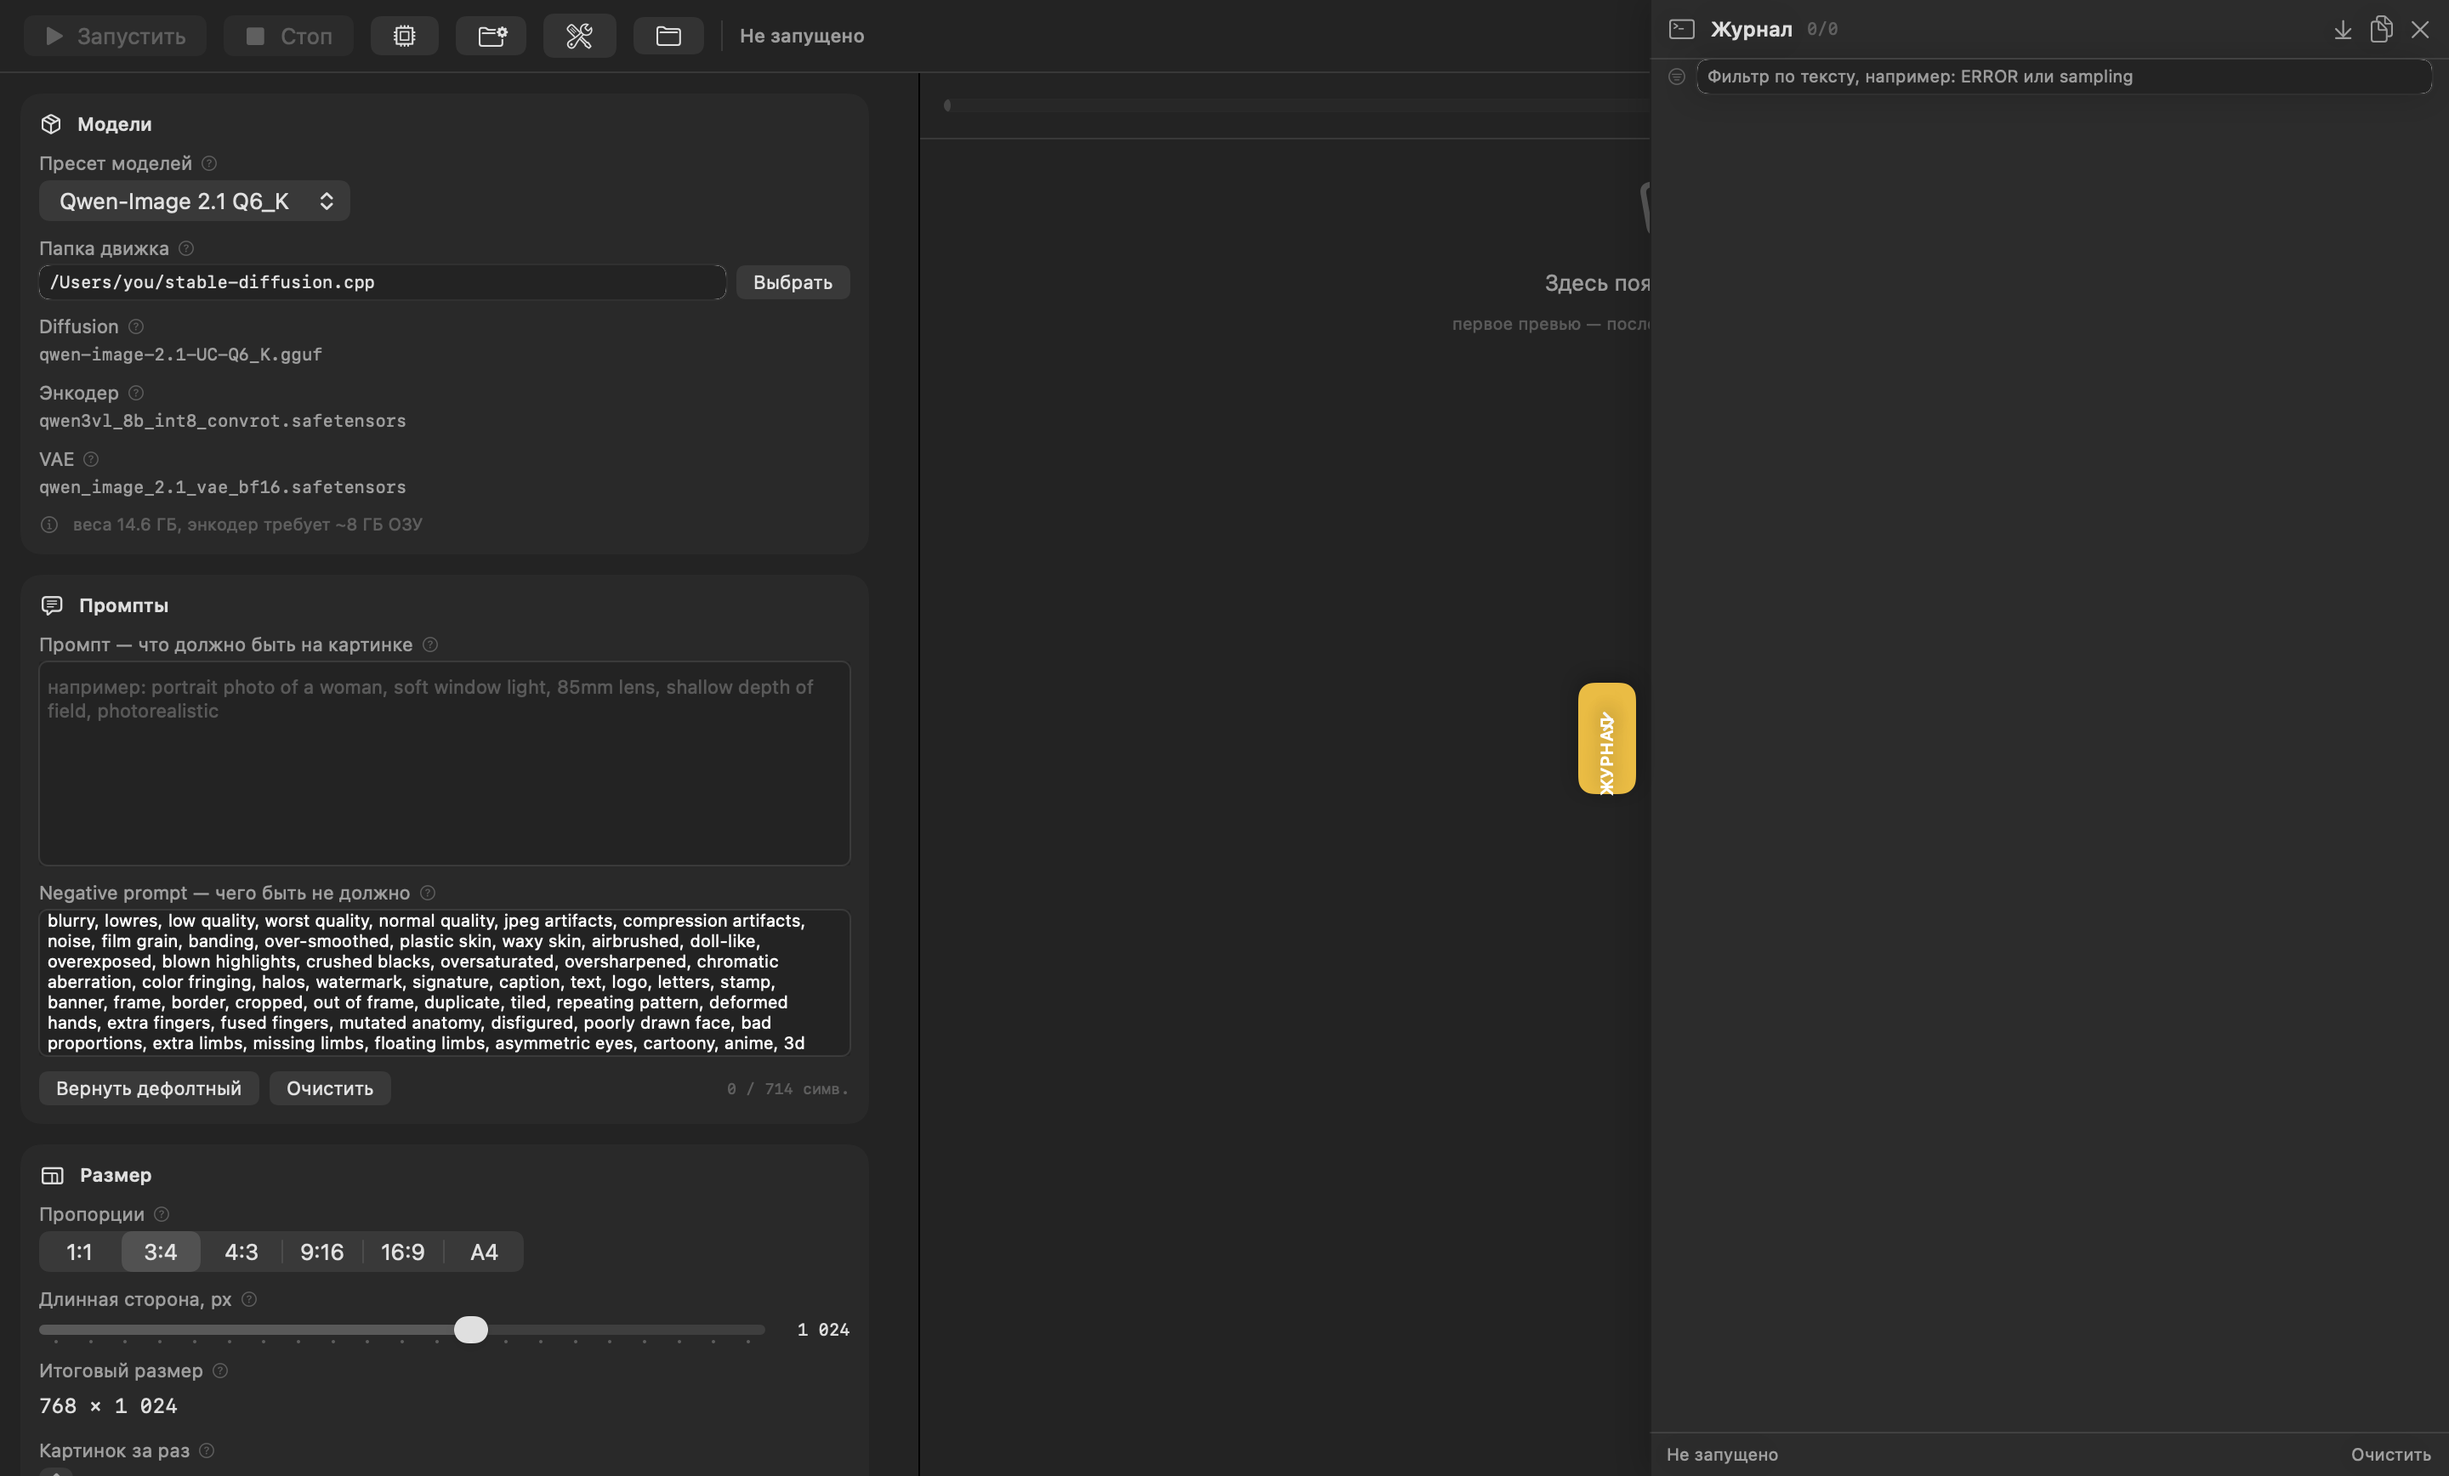
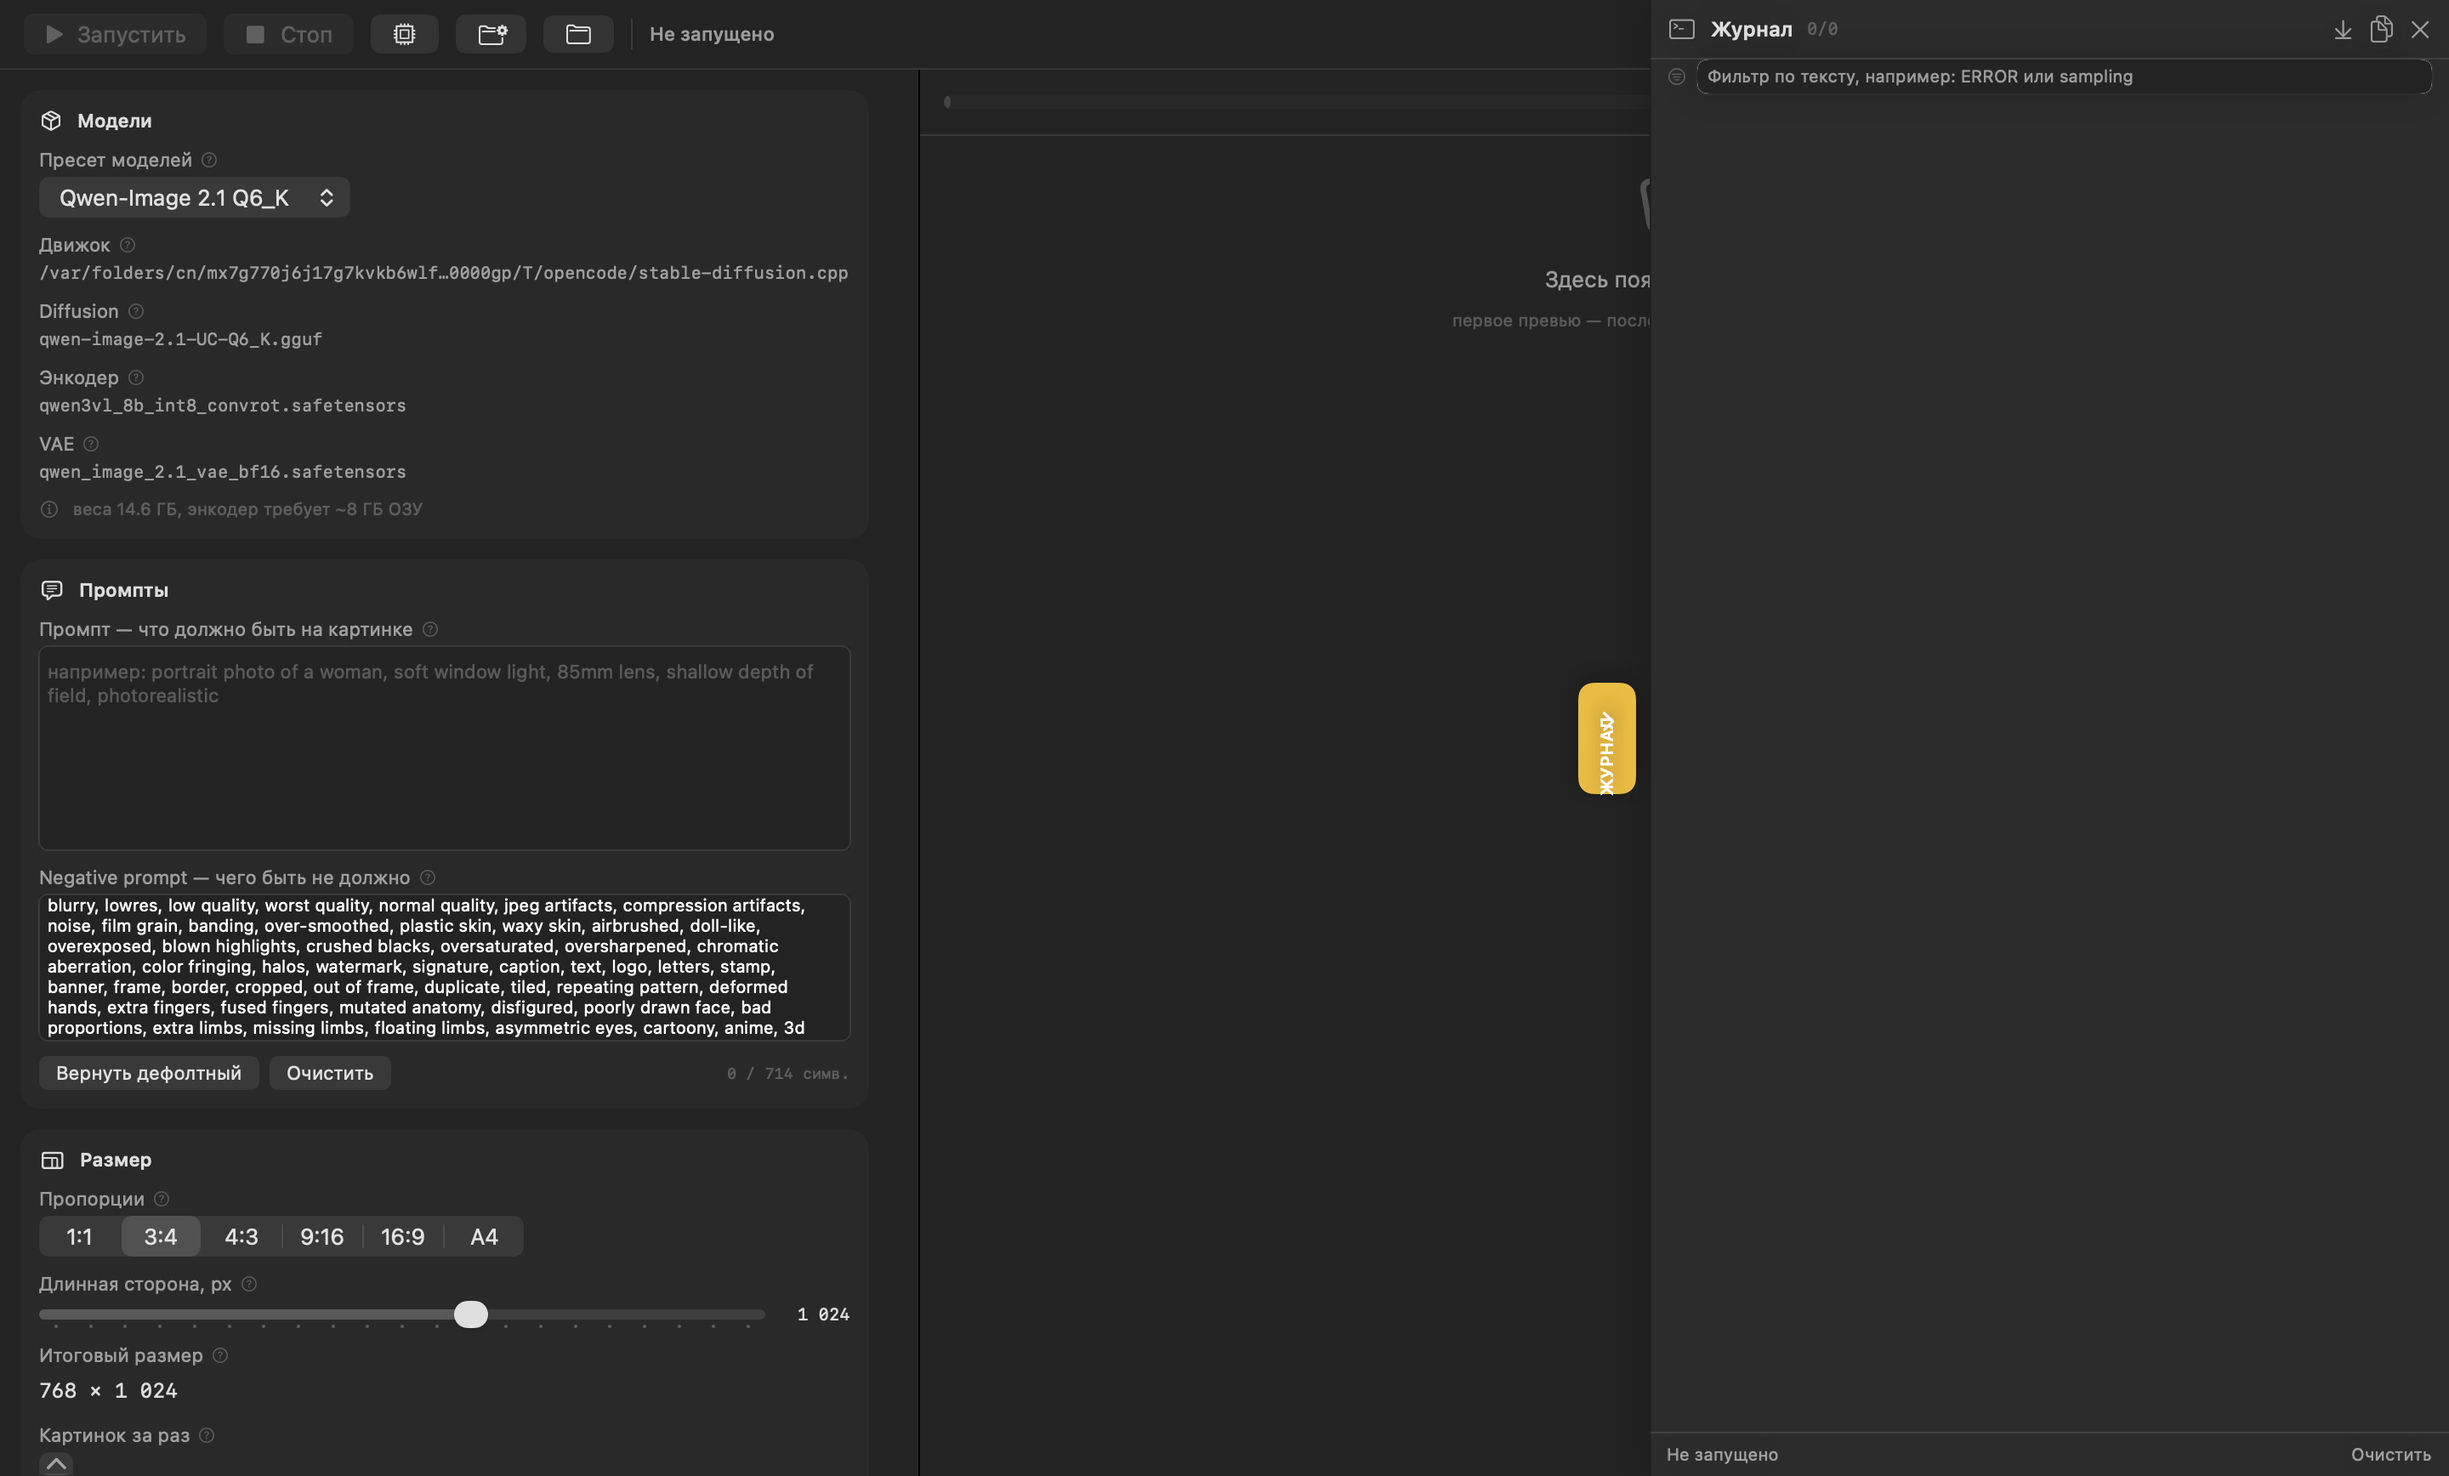
Убрать выбор папки движка из интерфейса
Пользователю нужно было менять только папку для сохранения картинок.

- Кнопка с гаечным ключом в тулбаре удалена
- Поле ввода пути к движку заменено на текстовое поле только для чтения
- chooseRootDirectory() удалён
- AppConstants.localBuild стоит первым в списке поиска, resolveRoot()
  больше не возвращает пустую строку
- README переписан: папка движка фиксирована, настраивается только вывод

diff --git a/Sources/RootView.swift b/Sources/RootView.swift
@@ -49,13 +49,6 @@ final class SettingsModel: ObservableObject {
         persist()
     }
 
-    func chooseRootDirectory() {
-        if let url = FolderPicker.pick(title: "Папка со stable-diffusion.cpp", start: s.rootPath) {
-            s.rootPath = url.path
-            normalize()
-        }
-    }
-
     func chooseOutputDirectory() {
         if let url = FolderPicker.pick(title: "Куда сохранять картинки", start: s.resolvedOutputDirectory) {
             s.outputDirectory = url.path
@@ -371,18 +364,12 @@ struct RootView: View {
             .help("Выбрать папку, куда будут сохраняться картинки")
 
             Button {
-                model.chooseRootDirectory()
-            } label: {
-                Image(systemName: "wrench.and.screwdriver")
-            }
-            .help("Указать папку, где собран stable-diffusion.cpp и лежат модели")
-
-            Button {
+                model.ensureOutputDirectory()
                 NSWorkspace.shared.activateFileViewerSelecting([model.s.outputURL])
             } label: {
                 Image(systemName: "folder")
             }
-            .help("Показать результат в Finder")
+            .help("Открыть папку с сохранёнными картинками в Finder")
 
             Divider().frame(height: 18)
 
@@ -432,14 +419,13 @@ struct RootView: View {
                     .labelsHidden()
                 }
 
-                FieldRow(label: "Папка движка", help: "Корень stable-diffusion.cpp. Нужен, чтобы найти build/bin/sd-cli и папку models. По умолчанию — собранный проект в /var/folders/...") {
-                    HStack(spacing: 6) {
-                        TextField("путь к stable-diffusion.cpp", text: s.rootPath)
-                            .textFieldStyle(.roundedBorder)
-                            .font(.system(size: 10, design: .monospaced))
-                        Button("Выбрать") { model.chooseRootDirectory() }
-                            .controlSize(.small)
-                    }
+                FieldRow(label: "Движок", help: "Папка со stable-diffusion.cpp фиксирована: здесь лежат build/bin/sd-cli и папка models. Менять её не нужно — выбирается только папка для сохранения картинок. Если переносите движок, задайте переменную окружения DIFFUSION_STUDIO_ROOT.") {
+                    Text(model.s.rootPath)
+                        .font(.system(size: 10, design: .monospaced))
+                        .foregroundStyle(.secondary)
+                        .lineLimit(1)
+                        .truncationMode(.middle)
+                        .textSelection(.enabled)
                 }
 
                 if model.s.modelSet == .qwenImage21Q6 {

diff --git a/Sources/Settings.swift b/Sources/Settings.swift
@@ -1,13 +1,16 @@
 import Foundation
 
 enum AppConstants {
-    /// Папка stable-diffusion.cpp, если она не задана явно.
+    /// Папка stable-diffusion.cpp. В интерфейсе она не меняется: движок лежит
+    /// в фиксированном месте, и трогать его не нужно.
     ///
-    /// Порядок: переменная окружения `DIFFUSION_STUDIO_ROOT`, затем несколько
-    /// типовых мест установки, иначе пустая строка — тогда пользователь должен
-    /// выбрать папку кнопкой в интерфейсе. Выбранный путь сохраняется в
-    /// UserDefaults, поэтому достаточно указать его один раз.
+    /// Порядок поиска: переменная окружения `DIFFUSION_STUDIO_ROOT`, затем
+    /// локальная сборка, затем типовые места установки.
     static let defaultRoot: String = resolveRoot()
+
+    /// Локальная сборка движка. Если stable-diffusion.cpp переехал, проще
+    /// задать DIFFUSION_STUDIO_ROOT, чем добавлять новый путь сюда.
+    static let localBuild = "/var/folders/cn/mx7g770j6j17g7kvkb6wlfhw0000gp/T/opencode/stable-diffusion.cpp"
 
     private static func resolveRoot() -> String {
         if let env = ProcessInfo.processInfo.environment["DIFFUSION_STUDIO_ROOT"],
@@ -16,6 +19,7 @@ enum AppConstants {
         }
         let home = NSHomeDirectory()
         let candidates = [
+            localBuild,
             home + "/stable-diffusion.cpp",
             home + "/Developer/stable-diffusion.cpp",
             home + "/src/stable-diffusion.cpp",
@@ -28,7 +32,7 @@ enum AppConstants {
         let fm = FileManager.default
         return candidates.first { fm.fileExists(atPath: $0 + "/build/bin/sd-cli") }
             ?? candidates.first { fm.fileExists(atPath: $0) }
-            ?? ""
+            ?? localBuild
     }
 
     /// Имя бинарника `sd-cli` относительно корня движка.

diff --git a/README.md b/README.md
@@ -33,8 +33,9 @@
 | Диск | ~20 ГБ под веса модели |
 | ОЗУ | ~22 ГБ свободных для Qwen-Image 2.1 Q6_K на CPU |
 
-Собранный `stable-diffusion.cpp` с моделями в `models/` должен лежать в одной папке —
-приложение укажет на неё один раз, и путь сохранится.
+Собранный `stable-diffusion.cpp` с моделями в `models/` должен лежать в одной папке.
+Приложение находит её само и менять её не нужно — настраивается только папка, куда
+складывать готовые картинки.
 
 Модели, которые приложение ожидает по умолчанию:
 
@@ -55,17 +56,22 @@ open "build/Diffusion Studio.app"
 Сборка занимает около минуты, Xcode не нужен. Скрипт компилирует нативный бинарник,
 генерирует иконку, если её ещё нет, и делает ad-hoc подпись.
 
-## Указать папку движка
+## Где хранятся файлы
 
-Приложение само ищет `stable-diffusion.cpp` в типовых местах (`~/stable-diffusion.cpp`,
-`~/Developer/…`, `/opt/homebrew/…`) и в переменной окружения:
+**Папка движка** (`stable-diffusion.cpp`) фиксирована и в интерфейсе не меняется. Приложение
+находит её сама: сначала переменная окружения, потом локальная сборка, потом типовые места
+установки (`~/stable-diffusion.cpp`, `~/Developer/…`, `/opt/homebrew/…`). Текущий путь
+показан в разделе «Модели» — только чтобы было видно, куда оно смотрит.
+
+Если движок переехал, задайте путь один раз при запуске:
 
 ```bash
 DIFFUSION_STUDIO_ROOT=/путь/к/stable-diffusion.cpp open "build/Diffusion Studio.app"
 ```
 
-Если ничего не нашлось — кнопка с гаечным ключом в тулбаре открывает системный выбор папки.
-Выбранный путь сохраняется, повторно указывать не нужно.
+**Папка для картинок** — единственное, что настраивается. Кнопка с папкой в тулбаре и
+кнопка в разделе «Сохранение» открывают системный выбор; путь сохраняется между запусками.
+По умолчанию — `outputs/` внутри папки движка.
 
 ## Что означают параметры
 
